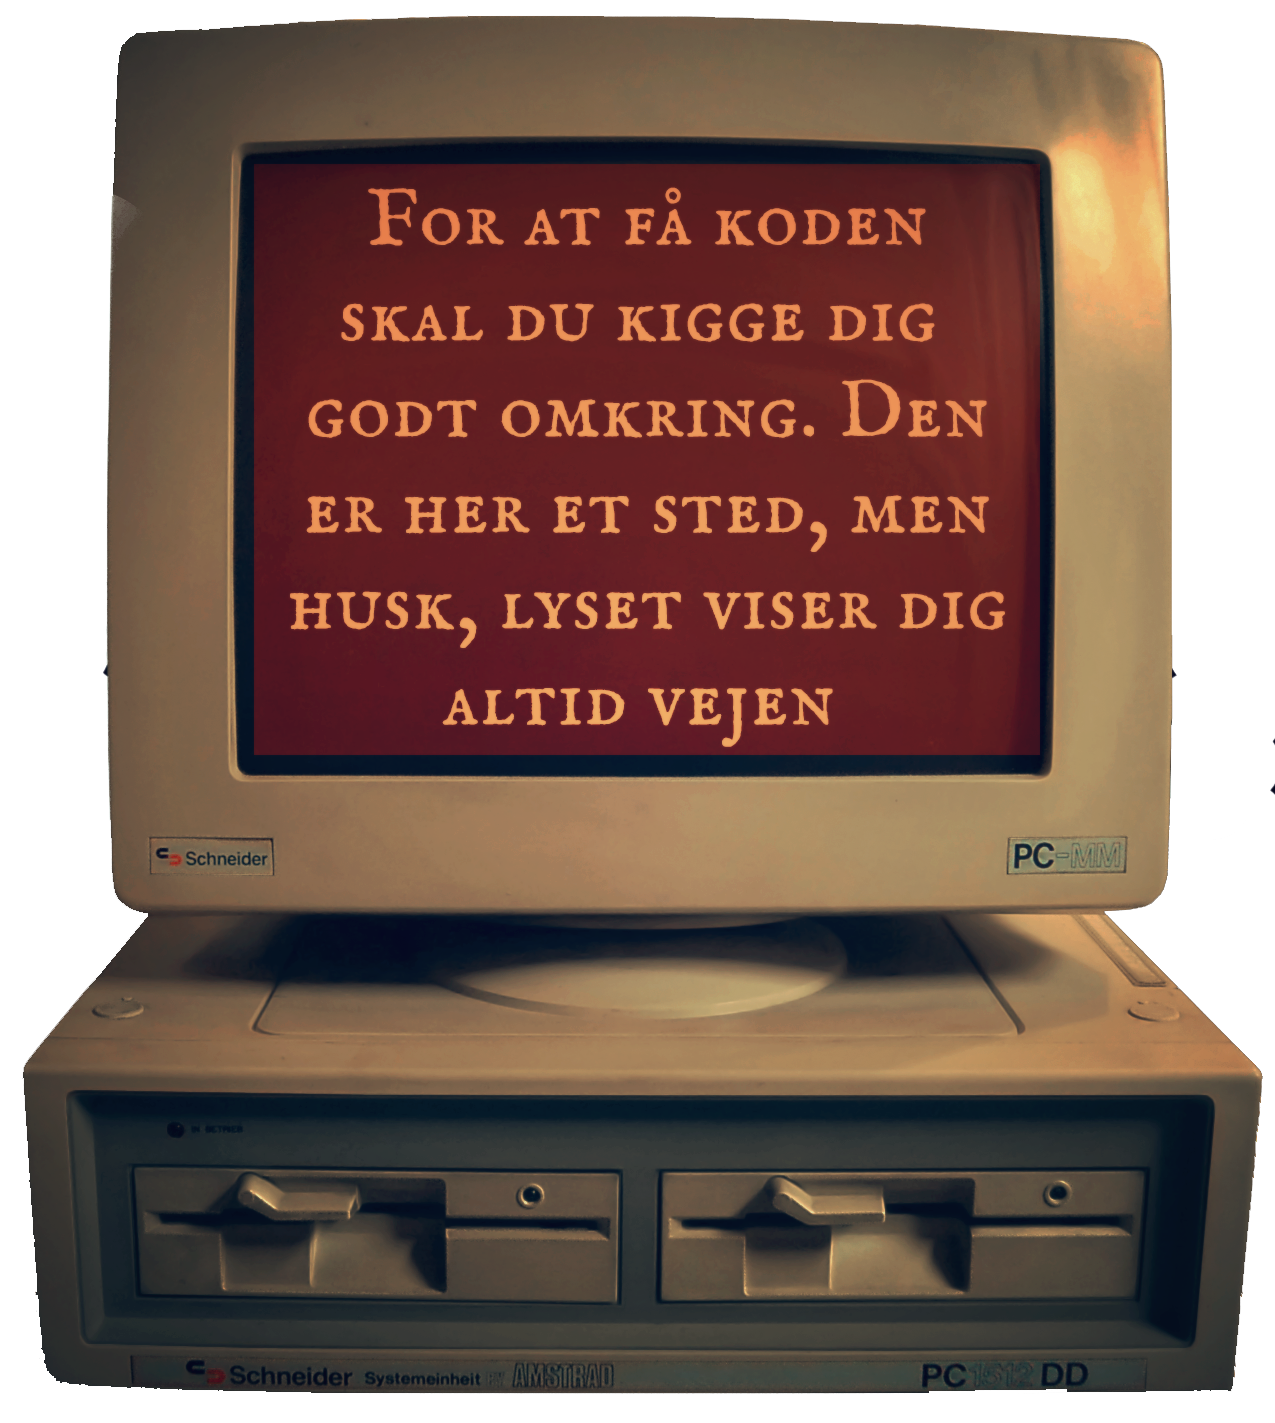
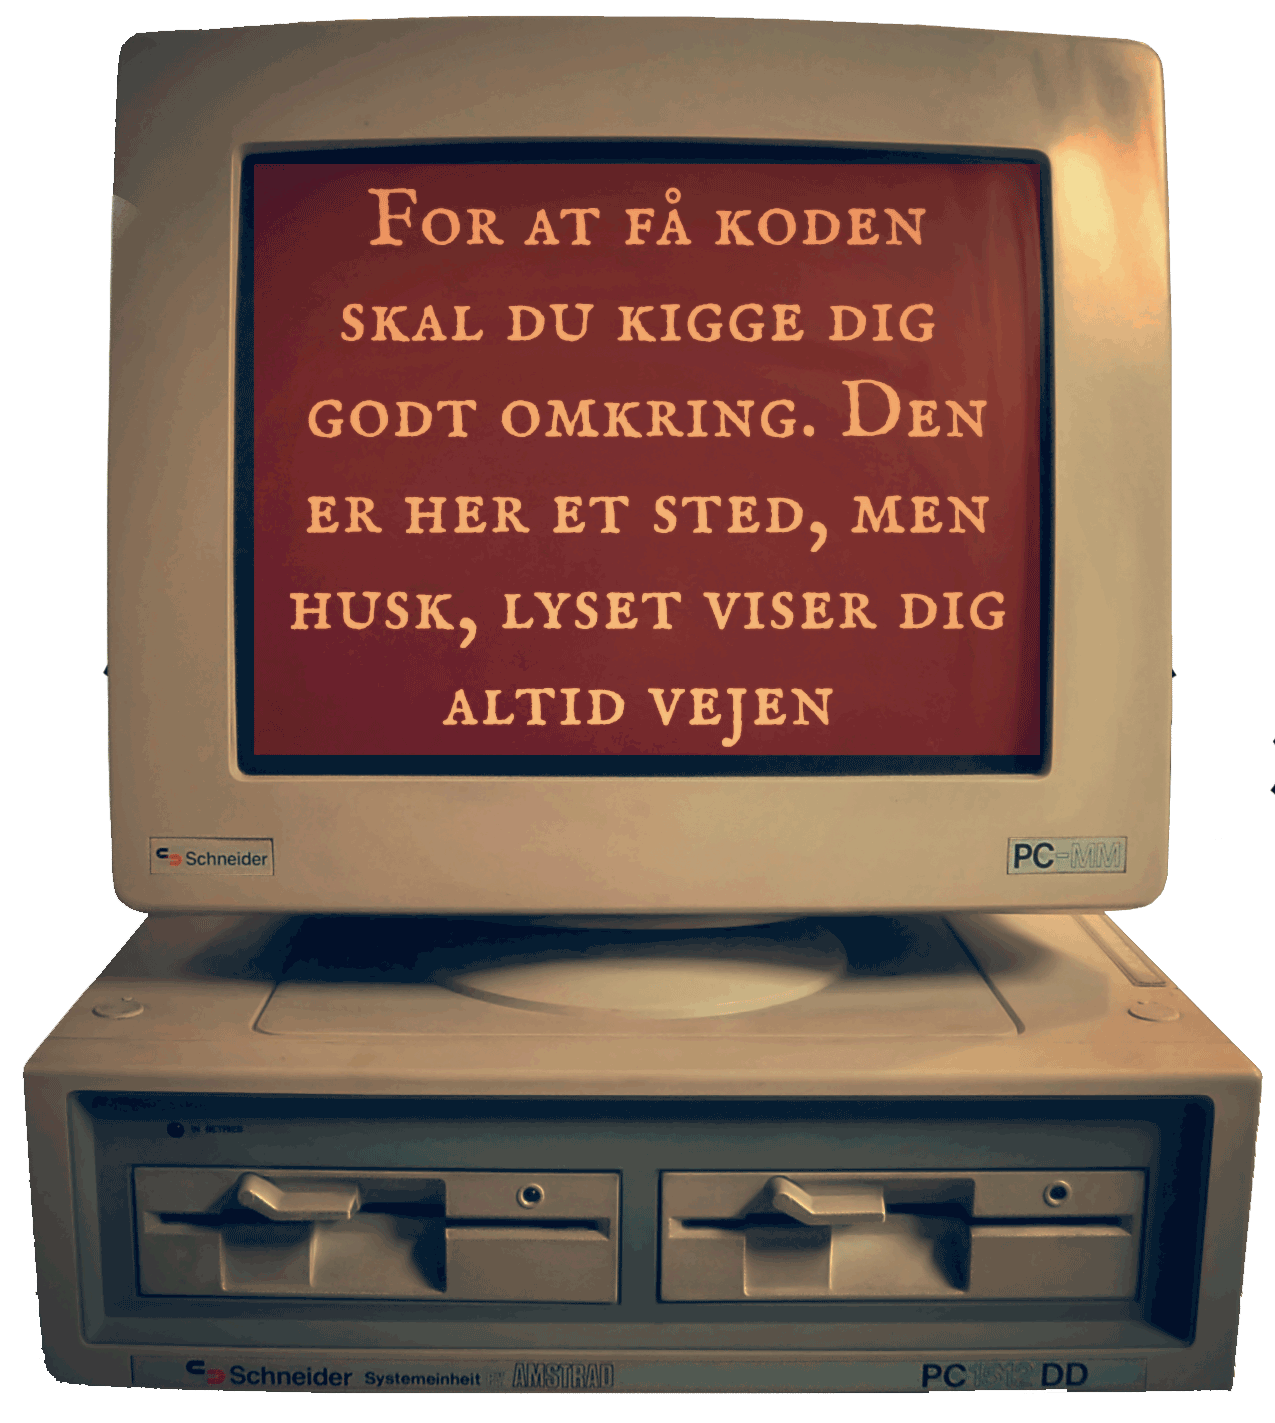
komprimerede billeder og baggrunde på spil

diff --git a/rum-2.html b/rum-2.html
@@ -3,63 +3,46 @@
 
 <head>
     <meta charset="utf-8">
-	<!-- HUSK AT UDFYLDE BESKRIVELSE TIL SEO-->
-	
-	<meta name="viewport" content="width=device-width, initial-scale=1.0">
+    <meta name="viewport" content="width=device-width, initial-scale=1.0">
     <title>Escape Factory | Spil</title>
     <link rel="stylesheet" href="css/style-spil.css">
     <link href="https://fonts.googleapis.com/css?family=Mate|Mate+SC|Merriweather+Sans" rel="stylesheet">
 </head>
 
-
-
 <body>
 
-<div class="baggrund4-spil">
-<img class="baggrundimg" src="images/rum2-spil.jpg" alt="skrivebord på kontor">
-
-<a href="haengelaas.html"><div class="knaekketkoden">Jeg har knækket koden, før mig til hængelåsen!</div></a>
-
-<a href="rum-3.html"><img class="pilhojre" src="images/pil-hojre.png"   alt="pil der peger til højre"></a>
-<a href="rum-1.html"><img class="pilvenstre" src="images/pil-venstre.png"   alt="pil der peger til venstre"></a>
-
-
-<!--onclick "change" bruges til at sige når der klikkes skal det der sker nede i function change ske-->
-
-<img class="stikkontakt" src="lightswitch.png" alt="stikkontakt" id="lyset" onclick="change();">
+    <div class="baggrund4-spil">
+        <a href="haengelaas.html">
+            <div class="knaekketkoden">Jeg har knækket koden, før mig til hængelåsen!</div>
+        </a>
+        <a href="rum-3.html"><img class="pilhojre" src="images/pil-hojre.png" alt="pil der peger til højre"></a>
+        <a href="rum-1.html"><img class="pilvenstre" src="images/pil-venstre.png" alt="pil der peger til venstre"></a>
+        <!--onclick "change" bruges til at sige når der klikkes skal det der sker nede i function change ske-->
+        <img class="stikkontakt" src="lightswitch.png" alt="stikkontakt" id="lyset" onclick="change();">
+    </div>
     
-    </div> 
+    <!--med inspiration fra her: https://www.youtube.com/watch?v=SGKXZUGe2sw-->
+    <!--l står for lightswitch og n står for numbers-->
 
-    
+    <script>
+        var image_tracker = 'l'
 
- <!--med inspiration fra her: https://www.youtube.com/watch?v=SGKXZUGe2sw-->
- <!--l står for lightswitch og n står for numbers-->
+        function change() {
 
-<script>
-    var image_tracker = 'l'
-   
-    function change() {
-        
-        var image = document.getElementById('lyset');
-        
-        if(image_tracker=='l') {
-            image.src='numbers.png';
-            image_tracker = 'n';
-            image.style.width='200px';
-        }else{
-            image.src = 'lightswitch.png';
-            image_tracker ='l';
-            image.style.width='3%';
+            var image = document.getElementById('lyset');
+
+            if (image_tracker == 'l') {
+                image.src = 'numbers.png';
+                image_tracker = 'n';
+                image.style.width = '200px';
+            } else {
+                image.src = 'lightswitch.png';
+                image_tracker = 'l';
+                image.style.width = '3%';
+            }
         }
-    }
-    
-    
-    
     </script>
-
-
-
-
+    
 </body>
 
 </html>

diff --git a/css/style-spil.css b/css/style-spil.css
@@ -36,11 +36,6 @@ h6 {
 
 /*-----SPILLET---styling af baggrundsbilleder*/
 
-.baggrundimg {
-    width: 100%;
-}
-
-
 .baggrund-spil {
     /*index-første side*/
     background-size: cover;
@@ -51,32 +46,42 @@ h6 {
 
 .baggrund1-spil {
     /*gaaden*/
-    position: relative;
-
+    background-image: url(../images/gaaden-rum-spil.jpg);
+    background-repeat: no-repeat;
+    background-size: cover;
+    height: 100vh;
 }
 
 .baggrund3-spil {
-
     /*rum1*/
-    position: relative;
+    background-image: url(../images/rum1-spil.jpg);
+    background-repeat: no-repeat;
+    background-size: cover;
+    height: 100vh;
 }
 
 .baggrund4-spil {
-
     /*rum2*/
-    position: relative;
+    background-image: url(../images/rum2-spil.jpg);
+    background-repeat: no-repeat;
+    background-size: cover;
+    height: 100vh;
 }
 
 .baggrund5-spil {
-
     /*rum3*/
-    position: relative;
+    background-image: url(../images/rum3-spil.jpg);
+    background-repeat: no-repeat;
+    background-size: cover;
+    height: 100vh;
 }
 
 .baggrund6-spil {
-
     /*hængelås*/
-    position: relative;
+    background-image: url(../images/hangelaas-rum.jpg);
+    background-repeat: no-repeat;
+    background-size: cover;
+    height: 100vh;
 }
 
 #demo {
@@ -202,12 +207,12 @@ container styler også knappen med før mig til hængelåsen*/
 /*---------------MOBIL---------------------*/
 
 @media (max-width: 767px) {
-   
+
 
     .startspil {
 
         top: 83%;
-    
+
 
     }
 
@@ -218,12 +223,6 @@ container styler også knappen med før mig til hængelåsen*/
 /*----------------------------TABLET OG DEROVER------------------------------*/
 
 @media(min-width: 768px) {
-    .baggrundimg {
-        /*gaaden*/
-        width: 100%;
-        height: 100%;
-
-    }
 
     .stikkontakt {
         width: 3%;
@@ -265,8 +264,5 @@ container styler også knappen med før mig til hængelåsen*/
     .startspil {
         margin-top: 7%;
     }
-    
-    
-    
-    
+
 }

diff --git a/rum-1.html b/rum-1.html
@@ -3,36 +3,22 @@
 
 <head>
     <meta charset="utf-8">
-	<!-- HUSK AT UDFYLDE BESKRIVELSE TIL SEO-->
-	
-	<meta name="viewport" content="width=device-width, initial-scale=1.0">
+    <meta name="viewport" content="width=device-width, initial-scale=1.0">
     <title>Escape Factory | Spil</title>
     <link rel="stylesheet" href="css/style-spil.css">
     <link href="https://fonts.googleapis.com/css?family=Mate|Mate+SC|Merriweather+Sans" rel="stylesheet">
 </head>
 
-
-
-
-
 <body>
 
-<div class="baggrund3-spil">
-<img class="baggrundimg" src="images/rum1-spil.jpg" alt="bogreol fyldt med ting og sager">
-
-
-<a href="haengelaas.html"><div class="knaekketkoden">Jeg har knækket koden, før mig til hængelåsen</div></a>
-
-
-<a href="rum-2.html"><img class="pilhojre" src="images/pil-hojre.png"  alt="pil der peger til højre"></a>
-<a href="gaaden.html"><img class="pilvenstre" src="images/pil-venstre.png" alt="pil der peger til venstre"></a>
-
-
+    <div class="baggrund3-spil">
+        <a href="haengelaas.html">
+            <div class="knaekketkoden">Jeg har knækket koden, før mig til hængelåsen</div>
+        </a>
+        <a href="rum-2.html"><img class="pilhojre" src="images/pil-hojre.png" alt="pil der peger til højre"></a>
+        <a href="gaaden.html"><img class="pilvenstre" src="images/pil-venstre.png" alt="pil der peger til venstre"></a>
     </div>
-
-
-
-
+    
 </body>
 
 </html>

diff --git a/rum-3.html b/rum-3.html
@@ -3,9 +3,7 @@
 
 <head>
     <meta charset="utf-8">
-	<!-- HUSK AT UDFYLDE BESKRIVELSE TIL SEO-->
-	
-	<meta name="viewport" content="width=device-width, initial-scale=1.0">
+    <meta name="viewport" content="width=device-width, initial-scale=1.0">
     <title>Escape Factory | Spil</title>
     <link rel="stylesheet" href="css/style-spil.css">
     <link href="https://fonts.googleapis.com/css?family=Mate|Mate+SC|Merriweather+Sans" rel="stylesheet">
@@ -13,16 +11,13 @@
 
 <body>
 
- <div class="baggrund5-spil">
- <img class="baggrundimg" src="images/rum3-spil.jpg" alt="reol med bog og statue">
-<a href="haengelaas.html"><div class="knaekketkoden">Jeg har knækket koden, før mig til hængelåsen!</div></a>
-
-<a href="rum-2.html"><img class="pilvenstre" src="images/pil-venstre.png"   alt="pil der peger til venstre"></a>
-
-</div>
-
-
-
+    <div class="baggrund5-spil">
+        <a href="haengelaas.html">
+            <div class="knaekketkoden">Jeg har knækket koden, før mig til hængelåsen!</div>
+        </a>
+        <a href="rum-2.html"><img class="pilvenstre" src="images/pil-venstre.png" alt="pil der peger til venstre"></a>
+    </div>
+    
 </body>
 
 </html>

diff --git a/haengelaas.html b/haengelaas.html
@@ -12,28 +12,16 @@
     <link href="https://fonts.googleapis.com/css?family=Mate|Mate+SC|Merriweather+Sans" rel="stylesheet">
 </head>
 
-
 <body>
 
-
     <div class="baggrund6-spil">
-        <img class="baggrundimg" src="images/hangelaas-rum.jpg" alt="kiste med hængelås">
-
         <a href="rum-3.html"><img class="pilvenstre" src="images/pil-venstre.png"   alt="pil der peger til venstre"></a>
-
         <img class="padlock" src="images/padlock.png" alt="hængelås" onclick="myFunction()">
-
-
         <!--demo er det tekst der kommer til at stå, efter at have indtastet koden. Det her p-tag bruges til styling af teksten-->
-        
         <p id="demo"></p>
-
     </div>
 
-
     <!--inspiration fra: https://www.w3schools.com/jsref/tryit.asp?filename=tryjsref_state_switch4-->
-    
-    
 
     <script id="promt">
         function myFunction() {
@@ -47,16 +35,9 @@
                     text = "Desværre, du må prøve igen";
             }
             document.getElementById("demo").innerHTML = text;
-
-
         }
 
     </script>
-
-
-
-
-
 
 </body>
 

diff --git a/gaaden.html b/gaaden.html
@@ -15,7 +15,6 @@
 <body>
 
     <div class="baggrund1-spil">
-        <img class="baggrundimg" src="images/gaaden-rum-spil.jpg" alt="skrivebord på et kontor">
 
        <!--onclick "change" bruges til at sige når der klikkes skal det der sker nede i function change ske-->
          <img src="fjernsyn.png" alt="gammelt fjernsyn" id="fjernsynet" onclick="change();" width="50%;">

diff --git a/css/style.css b/css/style.css
@@ -790,7 +790,7 @@ footer a {
 .close,
 .luk1,
 .luk {
-    color: #ffff;
+    color: #fff;
     float: right;
     font-size: 28px;
     font-weight: bold;
